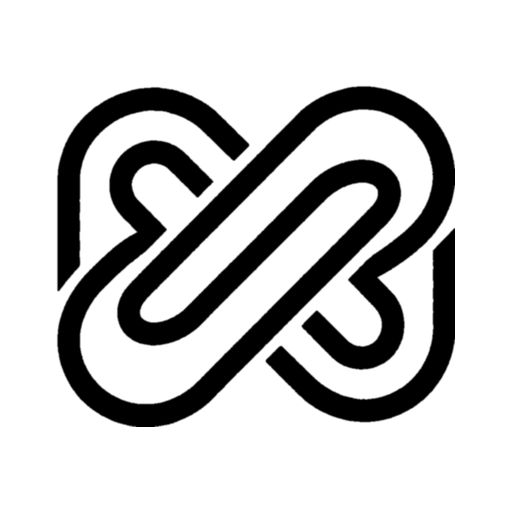
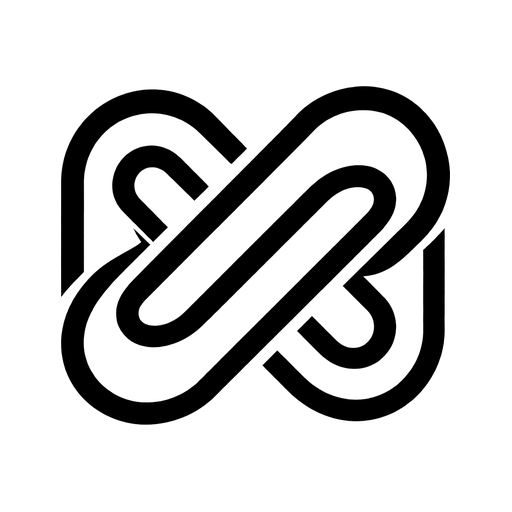
feat(brand): mark Kawan dari sumber kontras tinggi

diff --git a/src/components/brand-mark.tsx b/src/components/brand-mark.tsx
@@ -2,7 +2,7 @@
 export function BrandMark({ className = "size-9" }: { className?: string }) {
   return (
     // eslint-disable-next-line @next/next/no-img-element -- aset merek statis, bukan kandidat optimasi
-    <img src="/brand/kawan-mark.png" alt="" width={512} height={439} className={`${className} dark:invert`} />
+    <img src="/brand/kawan-mark.png" alt="" width={843} height={735} className={`${className} dark:invert`} />
   );
 }
 
